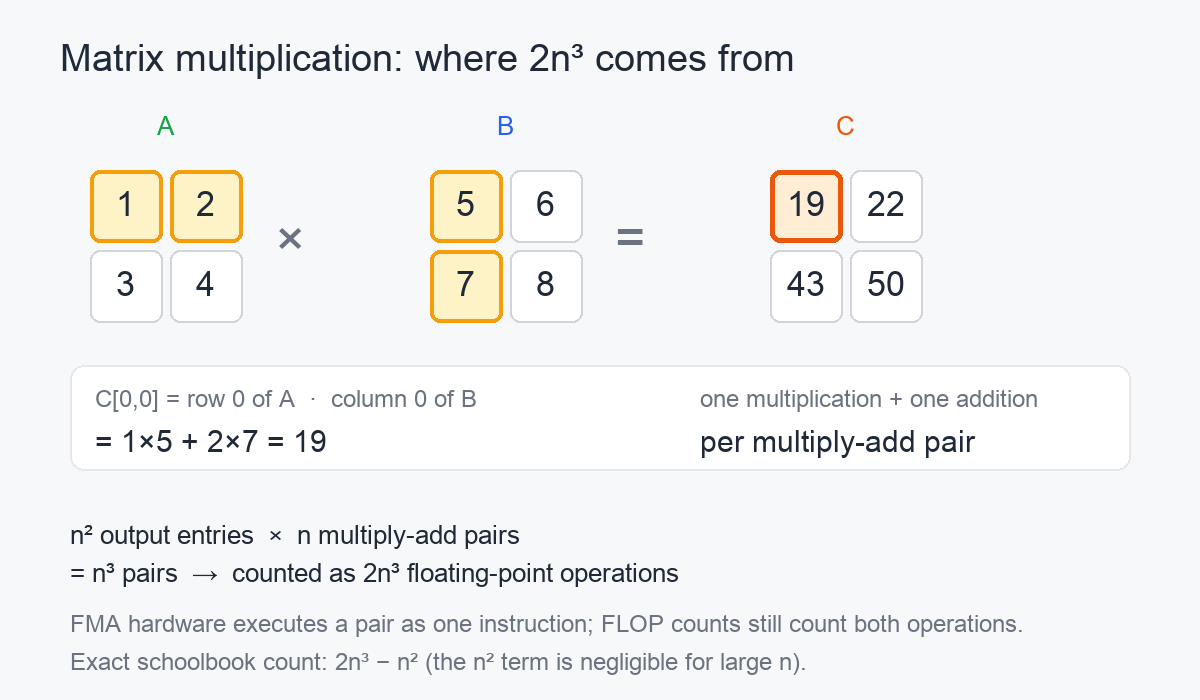
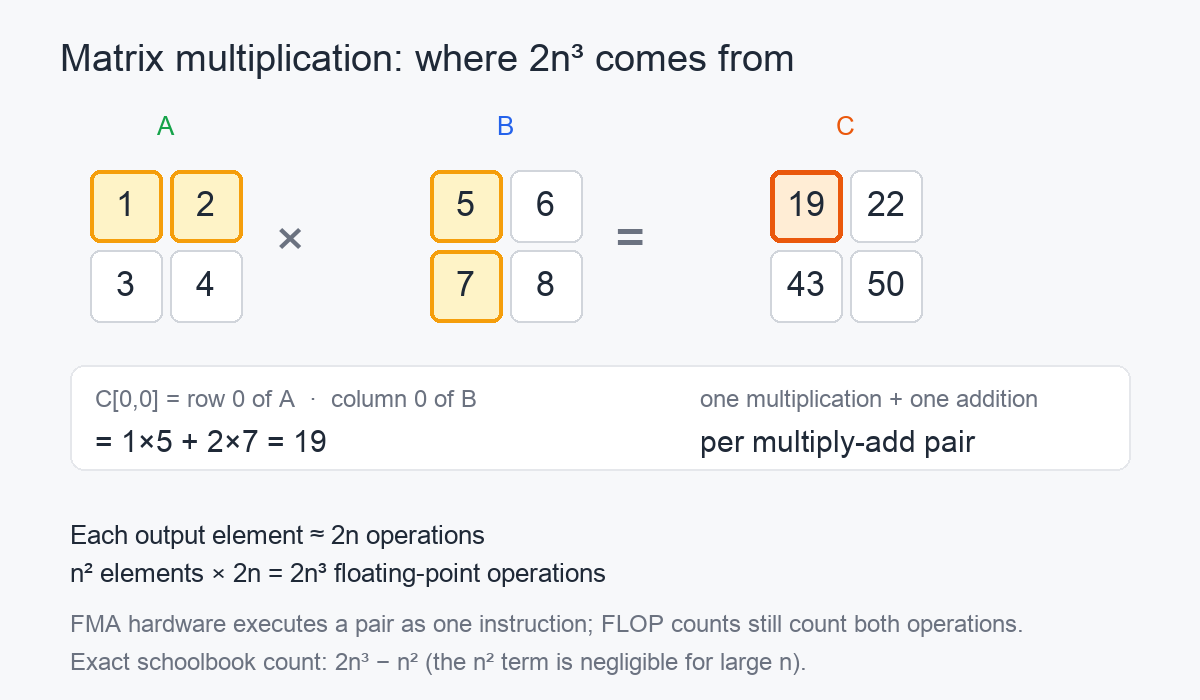
Reword 2n3 explanation around per-element operations

Changed region(s): [[0.0617, 0.75, 0.5858, 0.84]]

diff --git a/notes/programming/matrix-multiplication-2n3-flops.md b/notes/programming/matrix-multiplication-2n3-flops.md
@@ -12,7 +12,7 @@ The `2` comes from counting a multiplication and an addition separately. It is a
 
 ![2x2 matrix multiplication with one row and one column highlighted](images/matrix-multiply-2n3.png)
 
-*One output entry is the dot product of a row of A and a column of B. Each term contributes one multiplication and one addition.*
+*One output entry is the dot product of a row of A and a column of B: `n` multiplications and about `n` additions.*
 
 ## One output entry
 
@@ -22,12 +22,13 @@ For `C = A × B`, the entry at row `i`, column `j` is:
 C[i,j] = sum over k of A[i,k] * B[k,j]
 ```
 
-Computing that dot product takes:
+For one dot product:
 
-- `n` multiplications;
-- `n − 1` additions, if the accumulation starts with the first product.
+- perform `n` multiplications;
+- perform `n − 1` additions, or `n` additions if the accumulation starts with zero;
+- total roughly `2n` operations for that one output element.
 
-For a 2 × 2 example:
+The 2 × 2 example makes the arithmetic concrete:
 
 ```text
 C[0,0] = 1×5 + 2×7
@@ -35,25 +36,29 @@ C[0,0] = 1×5 + 2×7
        = 19
 ```
 
-That is two multiplications and one addition: three arithmetic operations for one output entry.
+That uses two multiplications and one addition. If the sum is written as `0 + 5 + 14`, it uses two additions instead, for a total of four operations. The simpler estimate is `2n = 4` operations for this entry.
 
-## Scaling to n × n
+For large `n`, the difference between `n − 1` and `n` additions is negligible. The convention uses `2n` operations per element.
 
-There are `n²` output entries.
+## Scaling to all n² elements
 
-Each entry needs `n` multiplications and approximately `n` additions. The conventional count treats each of the `n` terms as a multiply-add pair and charges two operations for it:
+The result matrix has `n²` elements. Using the simpler count of `2n` operations per element:
 
 ```text
-n² entries × n pairs × 2 operations = 2n³ operations
+n² elements × 2n operations per element = 2n³ operations
 ```
 
-The exact schoolbook count is slightly smaller:
+This is the standard estimate.
+
+The exact schoolbook count uses `n − 1` additions per dot product:
 
 ```text
 n³ multiplications + n²(n − 1) additions = 2n³ − n² operations
 ```
 
-For large `n`, the `n²` term is negligible compared with `n³`, so `2n³` is the usual estimate. For `n = 2`, the exact count is 12 operations, while `2n³` gives 16. The approximation is intended for large matrices, not tiny examples.
+If the accumulation includes an initial zero, the addition count is `n` per element, producing exactly `2n³` operations. The difference between the two counts is `n²`, which is negligible for large matrices.
+
+For `n = 2`, the exact count without an initial zero is 12 operations, while `2n³` gives 16. The approximation is intended for large matrices, not tiny examples.
 
 ## What a FLOP means
 
